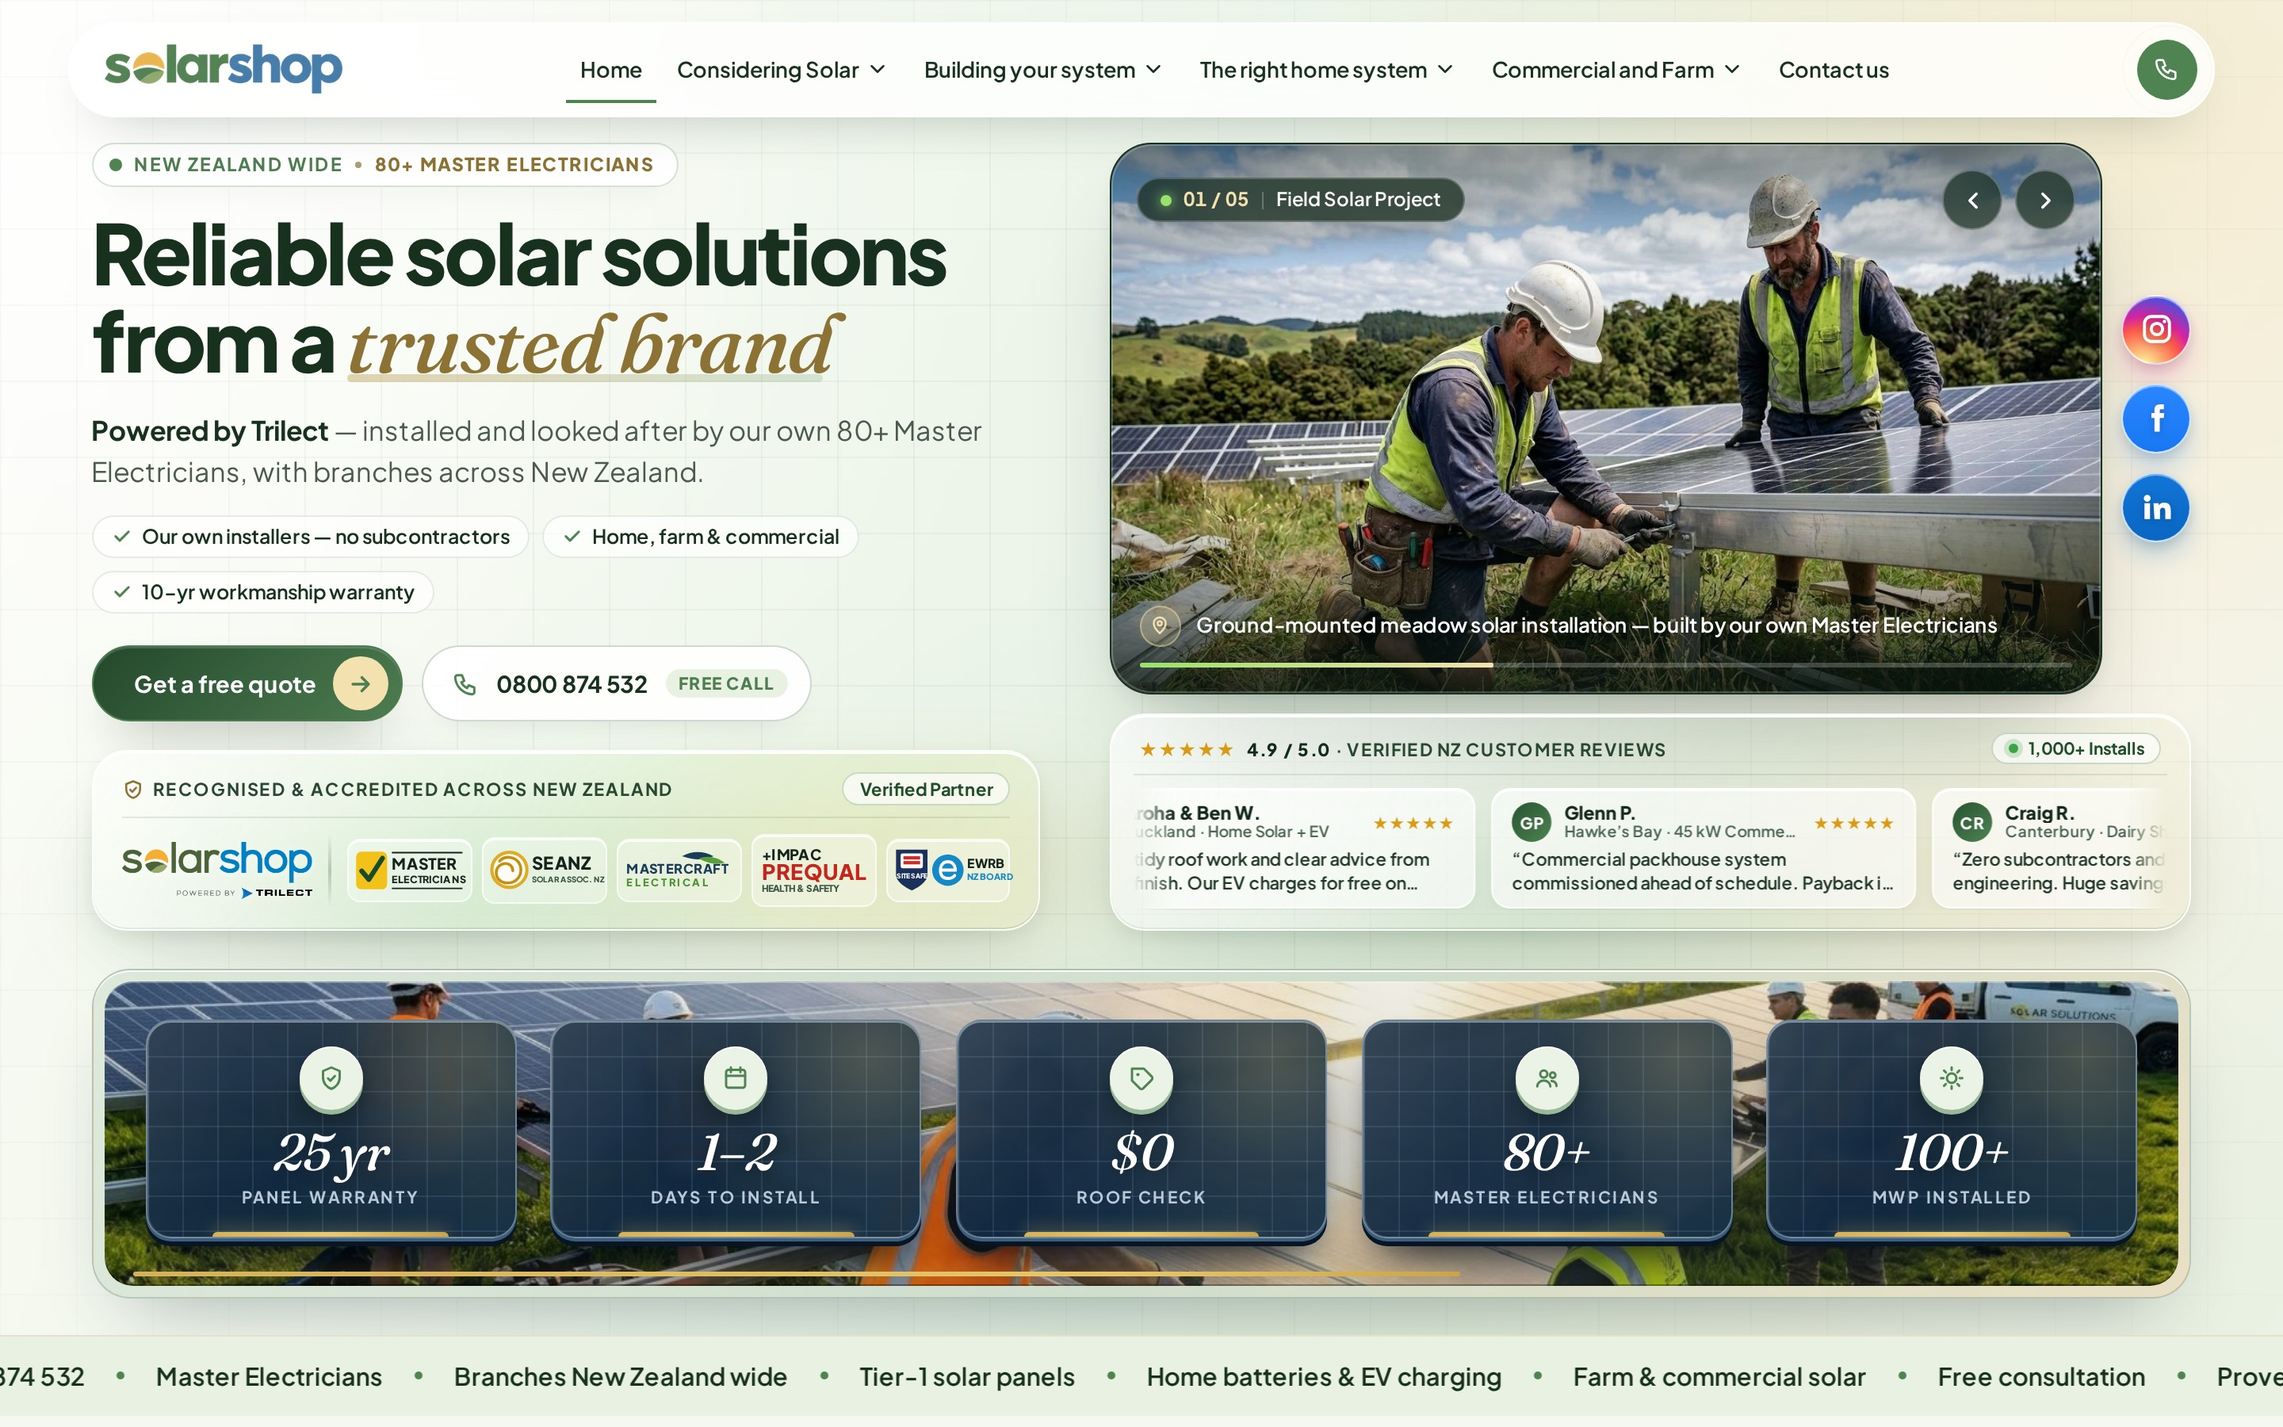
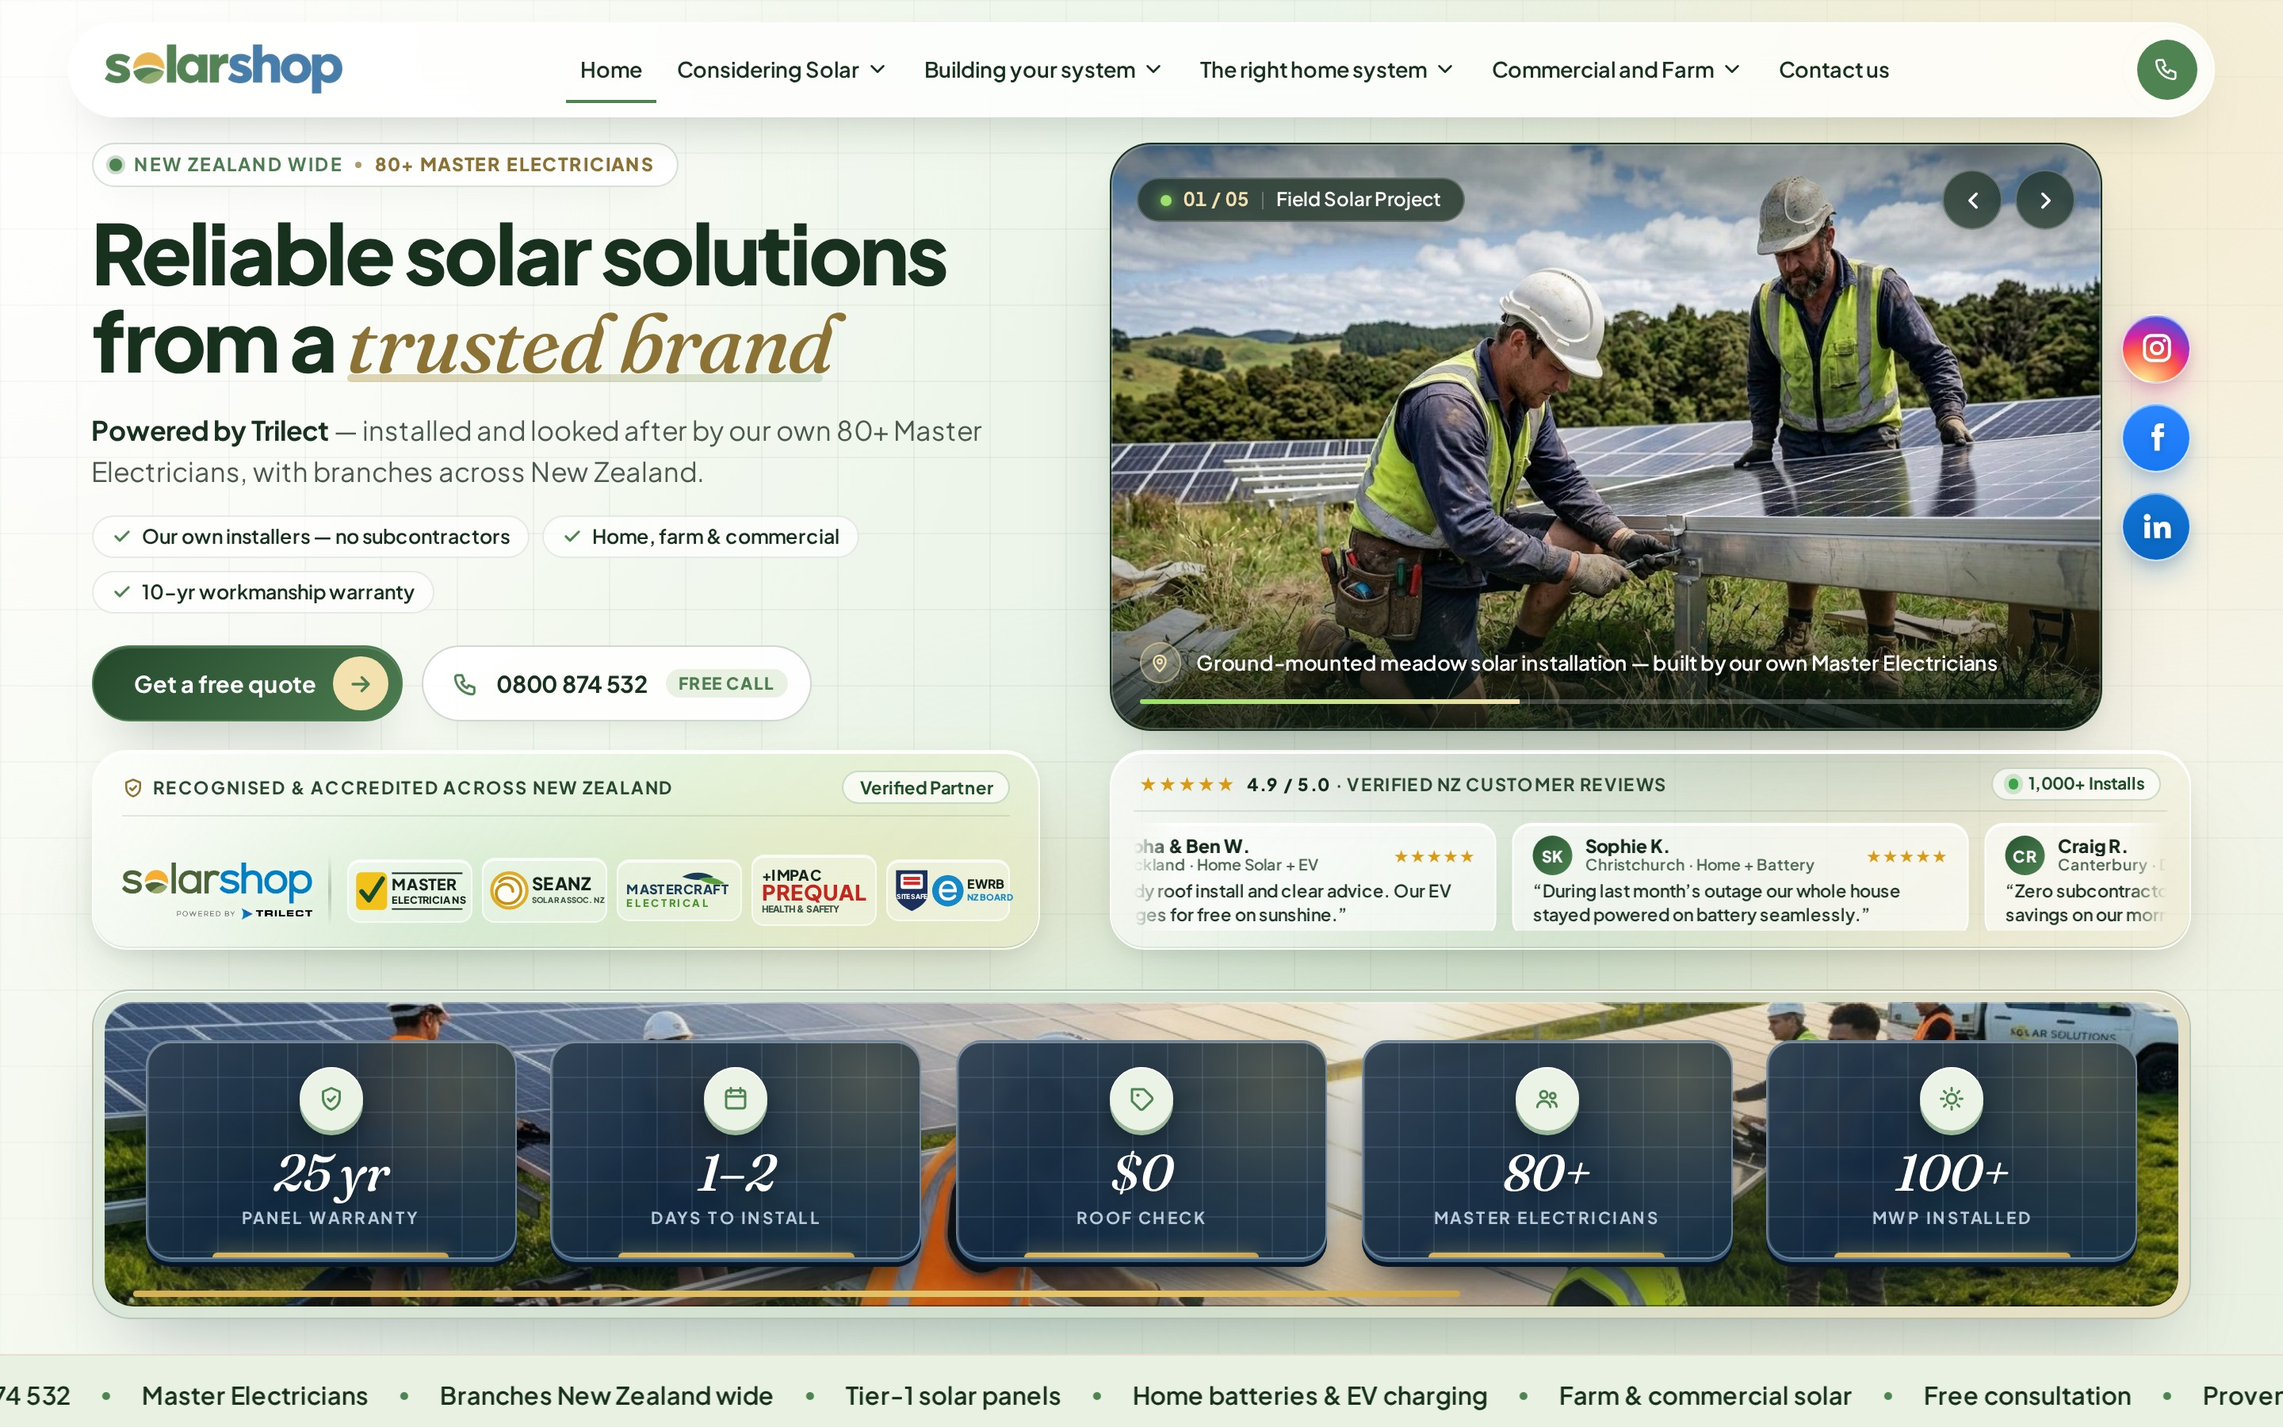
Add files via upload

diff --git a/index.html b/index.html
@@ -1,10 +1,10 @@
 <!doctype html><html lang="en-NZ"><head><meta charset="utf-8"><meta name="viewport" content="width=device-width, initial-scale=1, viewport-fit=cover">
 <title>Solar Shop | Home, farm & commercial solar</title><meta name="description" content="Solar panels, batteries, EV charging, farm and commercial solar. Master Electricians with branches New Zealand wide. Free call 0800 874 532.">
 <link rel="stylesheet" href="assets/fonts.css?v=20261102-v9">
-<link rel="icon" type="image/png" sizes="32x32" href="assets/favicon-32.png"><link rel="icon" type="image/png" sizes="512x512" href="assets/favicon-512.png"><link rel="apple-touch-icon" href="assets/apple-touch-icon.png"><link rel="stylesheet" href="assets/site.css?v=20261102-v9">
+<link rel="icon" type="image/png" sizes="32x32" href="assets/favicon-32.png"><link rel="icon" type="image/png" sizes="512x512" href="assets/favicon-512.png"><link rel="apple-touch-icon" href="assets/apple-touch-icon.png"><link rel="stylesheet" href="assets/site.css?v=20261103-v20">
 <link rel="preload" as="image" href="assets/photos/hero-01.webp?v=20261103-v17" fetchpriority="high">
-<link rel="stylesheet" href="assets/tokens.css?v=20261102-v9">
-<link rel="stylesheet" href="assets/hero.css?v=20261103-v19"></head><body id="top"><header class="hdr"><div class="bar"><a class="logo" href="index.html" aria-label="Solar Shop home"><img src="assets/logo.webp" alt="Solar Shop" width="156" height="34"></a>
+<link rel="stylesheet" href="assets/tokens.css?v=20261103-v20">
+<link rel="stylesheet" href="assets/hero.css?v=20261103-v20"></head><body id="top"><header class="hdr"><div class="bar"><a class="logo" href="index.html" aria-label="Solar Shop home"><img src="assets/logo.webp" alt="Solar Shop" width="156" height="34"></a>
 <nav aria-label="Main"><ul class="menu"><li class="mi"><a class="top" href="index.html" aria-current="page">Home</a></li><li class="mi has"><a class="top" href="considering-solar.html" aria-haspopup="true">Considering Solar<svg class="chev" viewBox="0 0 24 24" aria-hidden="true"><path d="m6 9 6 6 6-6"/></svg></a>
 <div class="mega" style="--acc:#4F8452"><div class="mega-in">
   <a class="mphoto" href="considering-solar.html"><img src="assets/house-deck.webp" alt="" loading="lazy"><span><b>Considering Solar</b><small>The facts, the numbers and the finance, so you can decide with confidence.</small><em>Explore <svg class="ar" viewBox="0 0 24 24" aria-hidden="true"><path d="M5 12h14M13 6l6 6-6 6"/></svg></em></span></a>
@@ -201,7 +201,7 @@
                 </div>
                 <span class="hv2-rev-stars" aria-label="5 out of 5 stars">★★★★★</span>
               </div>
-              <p class="hv2-rev-txt">“Installed in 1 day by their own Master Electricians — our power bill dropped by 74%.”</p>
+              <p class="hv2-rev-txt">“Installed in 1 day by their own Master Electricians — our power bill dropped 74%.”</p>
             </article>
             <article class="hv2-rev-card">
               <div class="hv2-rev-top">
@@ -212,7 +212,7 @@
                 </div>
                 <span class="hv2-rev-stars" aria-label="5 out of 5 stars">★★★★★</span>
               </div>
-              <p class="hv2-rev-txt">“Zero subcontractors and rock-solid engineering. Huge savings on our morning milking loads.”</p>
+              <p class="hv2-rev-txt">“Zero subcontractors and rock-solid work. Huge savings on our morning milking loads.”</p>
             </article>
             <article class="hv2-rev-card">
               <div class="hv2-rev-top">
@@ -223,7 +223,7 @@
                 </div>
                 <span class="hv2-rev-stars" aria-label="5 out of 5 stars">★★★★★</span>
               </div>
-              <p class="hv2-rev-txt">“Super tidy roof work and clear advice from start to finish. Our EV charges for free on sunshine.”</p>
+              <p class="hv2-rev-txt">“Super tidy roof install and clear advice. Our EV now charges for free on sunshine.”</p>
             </article>
             <article class="hv2-rev-card">
               <div class="hv2-rev-top">
@@ -234,7 +234,7 @@
                 </div>
                 <span class="hv2-rev-stars" aria-label="5 out of 5 stars">★★★★★</span>
               </div>
-              <p class="hv2-rev-txt">“The Trilect &amp; Solar Shop crew showed up on time, explained the app, and left the site spotless.”</p>
+              <p class="hv2-rev-txt">“The Trilect &amp; Solar Shop crew arrived on time, set up the app, and left it spotless.”</p>
             </article>
             <article class="hv2-rev-card">
               <div class="hv2-rev-top">
@@ -245,7 +245,7 @@
                 </div>
                 <span class="hv2-rev-stars" aria-label="5 out of 5 stars">★★★★★</span>
               </div>
-              <p class="hv2-rev-txt">“During last month’s grid outage our house stayed fully powered on battery without a flicker.”</p>
+              <p class="hv2-rev-txt">“During last month’s outage our whole house stayed powered on battery seamlessly.”</p>
             </article>
             <article class="hv2-rev-card">
               <div class="hv2-rev-top">
@@ -256,7 +256,7 @@
                 </div>
                 <span class="hv2-rev-stars" aria-label="5 out of 5 stars">★★★★★</span>
               </div>
-              <p class="hv2-rev-txt">“Commercial packhouse system commissioned ahead of schedule. Payback is tracking under 4 years.”</p>
+              <p class="hv2-rev-txt">“Commercial system commissioned ahead of schedule. Payback is under 4 years.”</p>
             </article>
           </div>
         </div>
@@ -347,6 +347,6 @@
     <li><a href="tel:0800874532"><svg class="i" viewBox="0 0 24 24" aria-hidden="true"><path d="M5 4h4l2 5-2.5 1.5a11 11 0 0 0 5 5L15 13l5 2v4a2 2 0 0 1-2 2A16 16 0 0 1 3 6a2 2 0 0 1 2-2"/></svg>0800 874 532 <small>(free call)</small></a></li>
     <li><a href="contact.html#quote"><svg class="i" viewBox="0 0 24 24" aria-hidden="true"><rect x="3" y="5" width="18" height="16" rx="2"/><path d="M3 10h18M8 3v4M16 3v4"/></svg>Book a free consultation</a></li>
     <li><svg class="i" viewBox="0 0 24 24" aria-hidden="true"><path d="M12 21s-7-6.2-7-11.5A7 7 0 0 1 19 9.5C19 14.8 12 21 12 21z"/><circle cx="12" cy="9.5" r="2.5"/></svg>Branches New Zealand wide</li></ul></div>
-</div><div class="tri"><i></i><i></i><i></i></div><div class="btm"><span>© 2026 Solar Shop. All rights reserved.</span><span>Experience · Reputation · Leadership</span></div></footer><script>window.FLOW={"panels": {"t": "Grid-tied: lowest upfront cost, fast payback.", "d": "Solar powers your home first. Anything left over flows to the grid and earns credits on your bill.", "b": ["Lowest upfront outlay, fast payback", "Minimal maintenance, no battery to manage", "Automatic switch between solar and grid"], "r": ["5.2 kW", "2.1 kW", "—", "+3.1 kW"], "l": "sun pv inv home grid"}, "battery": {"t": "Store the sunshine for later.", "d": "Your panels run the house and top up the battery, so you buy far less power after dark.", "b": ["Use more of the power you make", "Backup for essentials during outages", "Smart charging around your power plan"], "r": ["5.2 kW", "2.1 kW", "+2.4 kW", "+0.7 kW"], "l": "sun pv inv home grid batin"}, "evening": {"t": "After sunset, the battery takes over.", "d": "Lights, cooking and TV run on the energy stored during the day. The grid is only backup.", "b": ["Evening power from your own roof", "Quiet and fully automatic", "Track every kWh in the app"], "r": ["0.2 kW", "1.8 kW", "−1.6 kW", "0.0 kW"], "l": "batout home"}};window.CK="<svg class=\"ck\" viewBox=\"0 0 24 24\" aria-hidden=\"true\"><path d=\"m5 12.5 4.5 4.5L19 7.5\"/></svg>";</script><script src="assets/site.js?v=20261030-1"></script><script>(function(){var t=[].slice.call(document.querySelectorAll('.ftab')),p=[].slice.call(document.querySelectorAll('.fpanel'));t.forEach(function(b){b.addEventListener('click',function(){var n=b.getAttribute('data-t');t.forEach(function(x){var on=x===b;x.classList.toggle('on',on);x.setAttribute('aria-selected',on)});p.forEach(function(x){var on=x.getAttribute('data-p')===n;x.classList.toggle('on',on);x.hidden=!on});if(innerWidth<1100){var y=document.querySelector('.fpanels').getBoundingClientRect().top+scrollY-90;scrollTo({top:y,behavior:'smooth'})}})})})()</script>
-<script src="assets/hero.js?v=20261103-v18"></script>
+</div><div class="tri"><i></i><i></i><i></i></div><div class="btm"><span>© 2026 Solar Shop. All rights reserved.</span><span>Experience · Reputation · Leadership</span></div></footer><script>window.FLOW={"panels": {"t": "Grid-tied: lowest upfront cost, fast payback.", "d": "Solar powers your home first. Anything left over flows to the grid and earns credits on your bill.", "b": ["Lowest upfront outlay, fast payback", "Minimal maintenance, no battery to manage", "Automatic switch between solar and grid"], "r": ["5.2 kW", "2.1 kW", "—", "+3.1 kW"], "l": "sun pv inv home grid"}, "battery": {"t": "Store the sunshine for later.", "d": "Your panels run the house and top up the battery, so you buy far less power after dark.", "b": ["Use more of the power you make", "Backup for essentials during outages", "Smart charging around your power plan"], "r": ["5.2 kW", "2.1 kW", "+2.4 kW", "+0.7 kW"], "l": "sun pv inv home grid batin"}, "evening": {"t": "After sunset, the battery takes over.", "d": "Lights, cooking and TV run on the energy stored during the day. The grid is only backup.", "b": ["Evening power from your own roof", "Quiet and fully automatic", "Track every kWh in the app"], "r": ["0.2 kW", "1.8 kW", "−1.6 kW", "0.0 kW"], "l": "batout home"}};window.CK="<svg class=\"ck\" viewBox=\"0 0 24 24\" aria-hidden=\"true\"><path d=\"m5 12.5 4.5 4.5L19 7.5\"/></svg>";</script><script src="assets/site.js?v=20261103-v20"></script><script>(function(){var t=[].slice.call(document.querySelectorAll('.ftab')),p=[].slice.call(document.querySelectorAll('.fpanel'));t.forEach(function(b){b.addEventListener('click',function(){var n=b.getAttribute('data-t');t.forEach(function(x){var on=x===b;x.classList.toggle('on',on);x.setAttribute('aria-selected',on)});p.forEach(function(x){var on=x.getAttribute('data-p')===n;x.classList.toggle('on',on);x.hidden=!on});if(innerWidth<1100){var y=document.querySelector('.fpanels').getBoundingClientRect().top+scrollY-90;scrollTo({top:y,behavior:'smooth'})}})})})()</script>
+<script src="assets/hero.js?v=20261103-v20"></script>
 </body></html>

diff --git a/assets/hero.css b/assets/hero.css
@@ -357,9 +357,10 @@
   display: flex;
   flex-direction: column;
   justify-content: space-between;
-  gap: 10px;
-  min-height: 112px;
-  padding: 13px 18px 14px;
+  gap: 8px;
+  height: 126px;
+  min-height: 126px;
+  padding: 12px 18px 14px;
   border-radius: var(--hv2-radius-card);
   background: linear-gradient(
     135deg,
@@ -829,9 +830,10 @@
   display: flex;
   flex-direction: column;
   justify-content: space-between;
-  gap: 8px;
-  min-height: 112px;
-  padding: 11px 14px 12px;
+  gap: 7px;
+  height: 126px;
+  min-height: 126px;
+  padding: 10px 14px 11px;
   border-radius: var(--hv2-radius-card);
   background: linear-gradient(
     135deg,
@@ -931,8 +933,8 @@
 
 .hv2-rev-card {
   flex: 0 0 auto;
-  width: 268px;
-  padding: 8px 12px;
+  width: 288px;
+  padding: 7px 12px;
   border-radius: 12px;
   background: rgba(255, 255, 255, 0.62);
   border: 1px solid rgba(255, 255, 255, 0.85);
@@ -940,7 +942,7 @@
   display: flex;
   flex-direction: column;
   justify-content: center;
-  gap: 4px;
+  gap: 3px;
 }
 .hv2-rev-top {
   display: flex;
@@ -1236,6 +1238,63 @@
    9. RESPONSIVE BREAKPOINTS
    ===================================================================== */
 
+/* Short desktop/laptop viewports (e.g. 1366x768, 1280x720): keep entire hero + 5 solar cards visible above the fold */
+@media (max-height: 810px) and (min-width: 861px) {
+  .hero.hv2 {
+    min-height: 0;
+    padding: 78px 0 16px;
+  }
+  .hv2-in {
+    row-gap: 11px;
+  }
+  .hv2-eyebrow {
+    margin-bottom: 8px;
+    padding: 4px 12px 4px 8px;
+  }
+  .hv2-title {
+    font-size: clamp(32px, 3.3vw, 42px);
+  }
+  .hv2-sub {
+    margin-top: 8px;
+    font-size: 14.5px;
+  }
+  .hv2-pills {
+    margin-top: 10px;
+  }
+  .hv2-cta {
+    margin-top: 12px;
+  }
+  .hv2-btn {
+    height: 46px;
+  }
+  .hv2-media {
+    min-height: 276px;
+  }
+  .hv2-strip.hv2-surface,
+  .hero.hv2 .hv2-strip.hv2-surface.glass,
+  .hv2-revbar.hv2-surface,
+  .hero.hv2 .hv2-revbar.hv2-surface.glass {
+    height: 114px;
+    min-height: 114px;
+    padding: 9px 14px;
+  }
+  .hv2-sbar {
+    padding: 13px 16px;
+  }
+  .hv2-sbar-item {
+    min-height: 126px;
+    padding: 11px 10px 10px;
+  }
+  .hv2-sbar-ic {
+    width: 34px;
+    height: 34px;
+    margin-bottom: 6px;
+  }
+  .hv2-sbar-val {
+    font-size: clamp(22px, 2vw, 28px);
+  }
+}
+
 /* Medium-wide laptops & split-screen preview panes (861px–1360px) */
 @media (max-width: 1360px) {
   .hv2-dot {
@@ -1457,6 +1516,7 @@
   .hero.hv2 .hv2-revbar.hv2-surface.glass {
     padding: 10px 12px;
     border-radius: 18px;
+    height: auto;
     min-height: 98px;
   }
   .hv2-rev-live {
@@ -1470,6 +1530,8 @@
   .hero.hv2 .hv2-strip.hv2-surface.glass {
     padding: 12px 14px;
     border-radius: 18px;
+    height: auto;
+    min-height: 0;
   }
   .hv2-strip-badge {
     display: none;

diff --git a/assets/site.js b/assets/site.js
@@ -104,7 +104,7 @@ if(SPA)route();else{observe(document);if(location.hash){var t0=document.getEleme
   d.setAttribute('aria-hidden','true');r.setAttribute('aria-hidden','true');
   B.appendChild(d);B.appendChild(r);B.classList.add('cur-js');
   var x=-100,y=-100,rx=-100,ry=-100,last=null,moving=false;
-  var DARK='.nat,.steps,.diff.dark,.afeat>div:first-child,.btn,.hq-btn,.ftab.on,.sysk .link,.elink span,.stp .sn,.ctabox,.hero,.phero,.sp-ph,.prodc-img,.gal,.jobstrip,.aph,.wideph,.impact figure,.pgimg,.pano,.sfc figure,.plans,.pt,.shedrow,.cowph,.recog>img,.serv figure,.xpi,.pfilter .on,.film-in';
+  var DARK='.nat,.steps,.diff.dark,.afeat>div:first-child,.btn,.hq-btn,.ftab.on,.sysk .link,.elink span,.stp .sn,.ctabox,.phero,.sp-ph,.prodc-img,.gal,.jobstrip,.aph,.wideph,.impact figure,.pgimg,.pano,.sfc figure,.plans,.pt,.shedrow,.cowph,.recog>img,.serv figure,.xpi,.pfilter .on,.film-in,.hv2-media,.hv2-sbar-frame,.hv2-btn-primary,.hv2-soc a';
   var LIGHT='.hq-pw,.custs,.member,.brands,.logo,.bar,.specc,.pt figcaption,.glass,.pcard,.mega-in,.usetbl,.film-ctl';
   var HOV='a,button,input,select,textarea,label,.opt,.q button,[role=button]';
   function state(t){

diff --git a/assets/hero.js b/assets/hero.js
@@ -128,7 +128,7 @@
     clearTimeout(timer);
   }
 
-  var stage = document.querySelector('.hv2-col-right') || document.getElementById('hv2-slider');
+  var stage = document.querySelector('.hv2-media') || document.getElementById('hv2-slider');
   if (stage) {
     stage.addEventListener('mouseenter', pause);
     stage.addEventListener('mouseleave', play);
